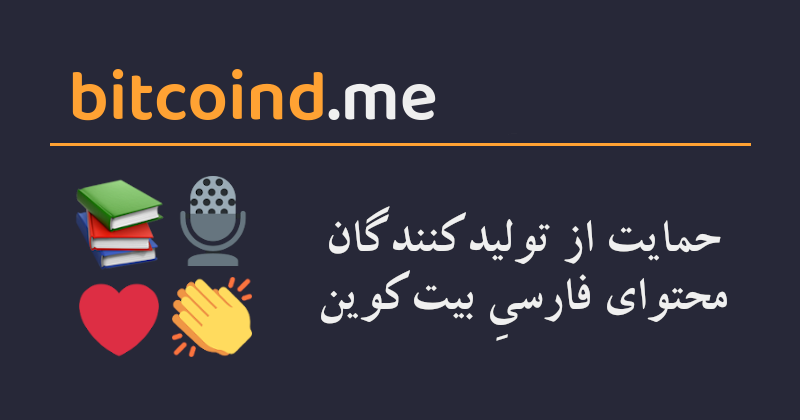
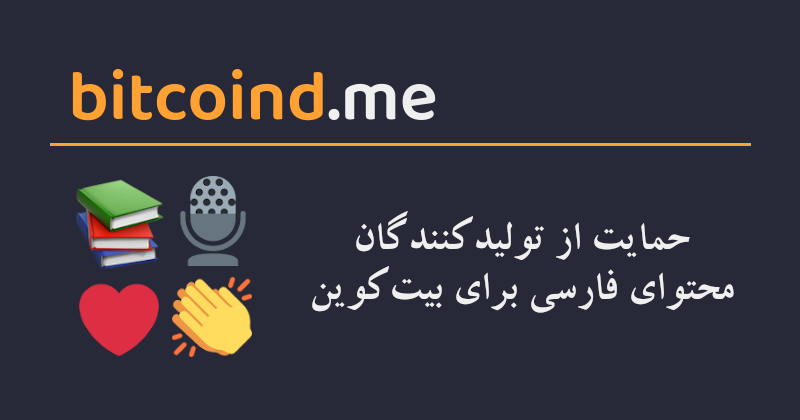
fixing a typo

Changed region(s): [[0.375, 0.4952, 0.9375, 0.7738]]

diff --git a/hemayat.html b/hemayat.html
@@ -7,7 +7,7 @@
   <meta charset="utf-8">
   <meta name="viewport" content="width=device-width, initial-scale=1">
   <meta name="description" content="معرفی کتابها، مقالات، خودآموزها و بهطور کلی معرفی منابع آموزشی معتبر حوزه بیتکوین، اقتصاد و حریم خصوصی" />
-  <meta property="og:image" content="https://bitcoind.me/assets/images/bitcoind_me_hemayat_dark.png?t=9889" />
+  <meta property="og:image" content="https://bitcoind.me/assets/images/bitcoind_me_hemayat_dark.png?t=988655879" />
   <meta property="og:image:type" content="image/png" />
   <meta property="og:image:width" content="800" />
   <meta property="og:image:height" content="420" />
@@ -16,7 +16,7 @@
   <meta property="twitter:title" content="bitcoind.me | منابع فارسی بیتکوین">
   <meta property="twitter:description" content="معرفی کتابها، مقالات، خودآموزها و بهطور کلی معرفی منابع آموزشی معتبر حوزه بیتکوین، اقتصاد و حریم خصوصی">
   <meta property="twitter:creator" content="bitcoind_me">
-  <meta property="twitter:image:src" content="https://bitcoind.me/assets/images/bitcoind_me_hemayat_dark.png?t=9889">
+  <meta property="twitter:image:src" content="https://bitcoind.me/assets/images/bitcoind_me_hemayat_dark.png?t=98865449">
   <meta property="twitter:domain" content="bitcoind.me">
   <link href="css/bootstrap-4.6.min.css" rel="stylesheet">
   <link href="css/index.css" rel="stylesheet">
@@ -39,7 +39,7 @@
     _paq.push(['trackPageView']);
     _paq.push(['enableLinkTracking']);
     (function() {
-      var u="https://stats.bitcoind.me/";
+      // var u="https://stats.bitcoind.me/";
       _paq.push(['setTrackerUrl', u+'matomo.php']);
       _paq.push(['setSiteId', '1']);
       var d=document, g=d.createElement('script'), s=d.getElementsByTagName('script')[0];
@@ -58,7 +58,7 @@
 
   <div class="pt-5 pb-5" style="background-color:#fff9f0;color:#272838;">
     <p style="font-size:1.8em;" class="text-center ir_title_bold">
-      حمایت از تولیدکنندگان محتوایِ فارسیِ بیتکوین
+      حمایت از تولیدکنندگان محتوای فارسی برای بیتکوین
     </p>    
     <p class="container ir_title mt-5 regular_text">
       ما در سایت منابع فارسی بیتکوین از ابتدای راه تلاش کردهایم تا محتوایی درخور مخاطبان فارسیزبان تولید کنیم و خوشبختانه در ادامه مسیر دوستانی پیدا کردیم که بهصورت خودجوش به تولید
